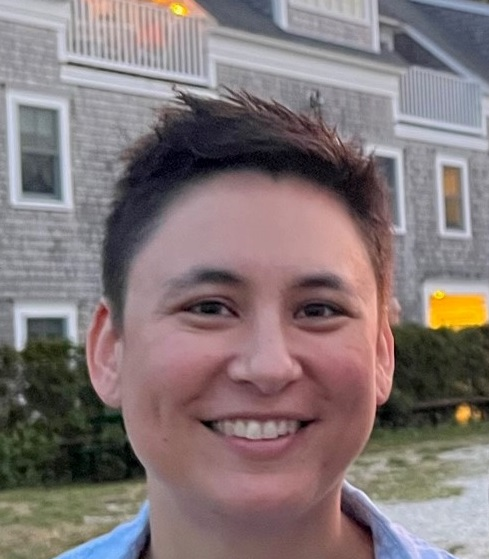
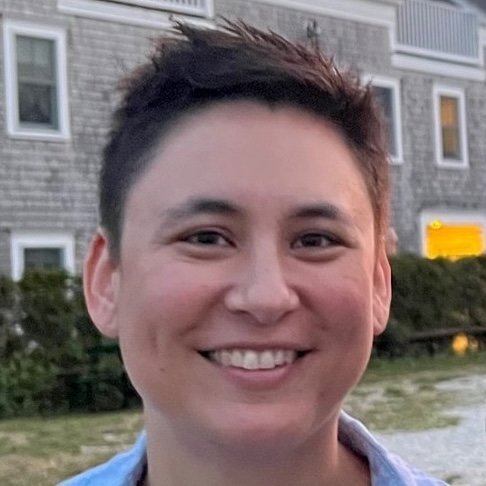
Added more bio information

diff --git a/website/src/theme/Bio/index.js b/website/src/theme/Bio/index.js
@@ -4,7 +4,9 @@ import styles from './styles.module.css'
 
 export default ({children, image, name, organisation}) => {
     return <div className={styles.bio}>
-        <img className={styles.headshot} src={image} alt={name} />
+    	<div class={styles.headshot}>
+	        <img src={image} alt={name} />    	
+    	</div>
         <div className={styles.details}>
             <h4>{name} - {organisation}</h4> 
             <div className={styles.description}>

diff --git a/website/src/theme/Bio/styles.module.css b/website/src/theme/Bio/styles.module.css
@@ -1,15 +1,20 @@
 .bio {
     display: flex;
     padding-bottom: 1rem;
-    align-items: center;
 }
 
 .description {
-
+	flex-grow: 1;
 }
 
 .headshot {
-    width: 10rem;
-    border-radius: 50%;
+    flex-basis: 10rem;
+    flex-shrink: 0;
+    flex-grow: 0;
     padding: 1rem;
+}
+
+.headshot img {
+    border-radius: 50%;
+    max-height: 8rem;	
 }

diff --git a/docs/bok/Contribution.md b/docs/bok/Contribution.md
@@ -17,7 +17,28 @@ Be a trusted venue for our members and community in their open source journey an
 
 ## Meetings
 
-Please check out the [FINOS Calendar](https://www.finos.org/calendar) for details of the OSR Meetings. We currently run two each month. Everyone is welcome, FINOS members and non-members alike.
+<table>
+	<thead>
+		<tr>
+			<th>First Thursday <br /> Every Month</th>
+			<th>Third Thursday <br /> Every Month</th>
+		</tr>
+	</thead>
+	<tbody>
+		<tr>
+			<td className="calendar"><a href="https://calendar.finos.org/4ceeknoiieiu0g9k6rmf4t3n44.ics"><img src="/img/bok/page-types/calendar.png" alt="Meeting Download"/><br />Add To Calendar</a></td>
+			<td className="calendar"><a href="https://calendar.finos.org/3oeu8ev0okjen2i8v5hstg5abt.ics"><img src="/img/bok/page-types/calendar.png" alt="Meeting Download"/><br />Add To Calendar</a></td>
+		</tr>
+		<tr>
+			<td>A show-and-tell covering important topics in open source.  In 2024 we aim to have <a href="https://github.com/finos/open-source-readiness/issues/224">more guest speakers and monthly themes.</a>  Please suggest your own!</td>
+			<td>This meeting is more of a workshop session where we will try to work on articles for this site or organise further resources.  </td>
+		</tr>
+	</tbody>					
+</table>
+
+Meetings are open to anyone who would like to participate. Previous Meeting Minutes and Agendas are available on [GitHub](https://github.com/finos/open-source-readiness/issues?q=is%3Aissue++label%3Ameeting+).
+
+Everyone is welcome, FINOS members and non-members alike.
 
 ## Leadership
 
@@ -44,12 +65,12 @@ Cara Delia advocates open source principles and practices by contributing to ext
 Brittany Istenes started off her career as an elementary school educator which then led to a path of technology. Brittany has led advisory councils, open source ambassador programs, open source contributions, InnerSource initiatives and all the gray areas in between at scale within large companies. Now at Fannie Mae, Brittany is hopeful to share these best practices for OSS and InnerSource with the teams at Fannie Mae. Her main goal is to create a frictionless developer/centric environment where not only are we creating the best products for our customers, but we are doing so in a way that is better, faster, secure and more innovative within the FinTech world.
 </Bio>
 
-<Bio name="Elspeth Minty" organisation="RBC" image="/img/people/elspeth-minty.jpeg">
-Elspeth has worked in the Financial Industry for more than two decades. Her experience covers everything from developing core Java/C++ libraries to helping teams adopt cloud technologies. She has worked in a number of locations, including London, Shanghai and Montreal where she is now based. In her current role at RBC Capital Markets, Elspeth is helping to improve code re-use and consistent application design. She has been involved in FINOS for a number of years and is currently a member of its Technical Steering Committee, as well as a co-lead of the OpenSource Readiness SIG.  Elspeth has presented at conferences, including SpringOne, QCon in London and Shanghai, and InnerSource Commons Gathering.
-</Bio>
-
 <Bio name="Peter Smulovics" organisation="Morgan Stanley" image="/img/people/peter-smulovics.jpeg">
 Peter Smulovics is an Executive Director of Enterprise Application Infrastructure focusing on Microsoft technologies at Morgan Stanley. He is a publicist for IDG and for Architecture Journal; author and co-author of several books and a returning presenter on TechEd, DevDays, Techready, Agile DevCon, TechNet. He is a founder member of AgileAlliance, Architecture Forum, Architect Academy and .NET forum, Technical Lead on several OSS projects like Novell/JBoss’ Hibernate, Apache Velocity and similar. He is Microsoft, Ariba, JBoss, and SiteCore certified and also a trainer on several technologies. Working in IT since 1995, has project experience in different fields (FMCG, public, financial, energy, telecom, pharmaceutical, mobile, music, security). He worked at Compaq as Oracle DBA, worked at Microsoft on C#, .NET, Dynamics, Visual Studio .NET, SQL Server, Office, ASP.NET, Entity Framework, and Azure, and is the main organizer for the FSI Autism Hackathon.
+</Bio>
+
+<Bio name="Thomas Cooper" organisation="RBC" image="/img/people/thomas-cooper.jpeg">
+Director, Open Source Software Development
 </Bio>
 
 ### Executive Sponsors
@@ -57,17 +78,24 @@ Peter Smulovics is an Executive Director of Enterprise Application Infrastructur
 In 2023, FINOS aims to productize Open Source Readiness with new trainings and certification. The following are the FINOS board executive sponsors of this strategy:
 
 <Bio name="Rhyddian Olds" organisation="Citi" image="/img/people/Rhyddian-Photo-Circle.webp">
-Insert bio here
-</Bio>
+Rhyddian is the Head of UI and Services for Citi’s institutional business, driving innovation in client and non-client facing UI applications.  In previous roles at JP Morgan and Deutsche Bank he led major transformational programs to create modern Digital UI Platforms including the acclaimed Autobahn Platform.  He led the first open source project contribution by Deutsche Bank to the brand new FINOS organisation and went on to serve as the FINOS board director for all three of these Platinum members.  <br /><br /> Since joining Citi two years ago, Rhyddian established and now leads Citi’s global Open Source Program Office which promotes open source contribution as an inclusive development pathway for all technology employees. As a passionate advocate of the Diversity, Equity and Inclusion and the benefits of open source contribution, Rhyddian is the FINOS executive sponsor of the FINOS Diversity, Equity and Inclusion and Open Source Readiness Special Interest Groups.</Bio>
 
 <Bio name="Chris Stevenson" organisation="UBS" image="/img/people/chris-stevenson.jpeg">
-Insert bio here
+Head of Strategy and Architecture, Execution and Platform Technology
 </Bio>
 
 ## Contributing Authors
 
-<Bio name="Amol Meshram" image="/img/people/no-headshot.png" organisation="LSEG">
-TBD.
+<Bio name="Amol Meshram" image="/img/people/amol-meshram.png" organisation="LSEG">
+Amol is a seasoned professional with a passion for technology and a commitment to fostering open-source software innovation.<br/><br/>Throughout his career, Amol has demonstrated a remarkable aptitude for open-source software governance, aligning technological innovation with regulatory compliance. At London Stock Exchange Group (LSEG), he plays a pivotal role in ensuring that open-source software initiatives are not only technically robust but also adhere to the highest standards of governance, security, and licensing.<br/><br/>Amol's expertise extends beyond the corporate realm. He is a fervent advocate for the open-source community, actively participating in industry events and contributing to open-source projects that drive technological progress.
+</Bio>
+
+<Bio name="Ayush Arora" image="/img/people/ayush.jpeg" organisation="None">
+Ayush is a legal professional with a rich background in open source software licensing and technology contracting. With a distinguished career that spans pivotal roles, including serving as an Advisor to the PwC's Digital Products & Transformation team and as a Program Manager Digital Innovation at Deloitte's Global Tax & Legal, Ayush has consistently maintained himself at the intersection between law, technology, and innovation. He is also a Black Duck Legal specialist, with background in computer science; and is passionate about advancing innovation in the ever-evolving landscape of open source.
+</Bio> 
+
+<Bio name="Elspeth Minty" organisation="RBC" image="/img/people/elspeth-minty.jpeg">
+Elspeth has worked in the Financial Industry for more than two decades. Her experience covers everything from developing core Java/C++ libraries to helping teams adopt cloud technologies. She has worked in a number of locations, including London, Shanghai and Montreal where she is now based. In her current role at RBC Capital Markets, Elspeth is helping to improve code re-use and consistent application design. She has been involved in FINOS for a number of years and is currently a member of its Technical Steering Committee, as well as a co-lead of the OpenSource Readiness SIG.  Elspeth has presented at conferences, including SpringOne, QCon in London and Shanghai, and InnerSource Commons Gathering.
 </Bio>
 
 <Bio name="Rob Moffat" image="/img/people/rob-moffat.jpeg" organisation="FINOS">
@@ -90,11 +118,11 @@ An open source advocate and enthusiast. His major focus areas include Open Sourc
 Vicki is a product manager of Goldman Sachs’ Core Engineering, where she delivers software to improve developer productivity and to provide exceptional customer experiences. Prior to her current role, Vicki was the OSPO program manager and an instrumental part of building out the firm’s open source program. Before joining Goldman Sachs in 2021, Vicki was in the e-commerce and software consulting spaces in Japan and Taiwan.
 </Bio>
 
-<Bio name="Kay Xiong Pachay" organisation="Goldman Sachs" image="/img/people/no-headshot.png">
-TBC
+<Bio name="Kay Xiong Pachay" organisation="Goldman Sachs" image="/img/people/kay-xiong-pachay.jpeg">
+Open Source Program Manager.
 </Bio>
 
-<Bio name="Zack Koppert" organisation="Github" image="/img/people/no-headshot.png">
+<Bio name="Zack Koppert" organisation="Github" image="/img/people/zack-koppert.jpeg">
 Zack is a Senior Software Engineer at GitHub on the OSPO team, with a focus on Open Source and InnerSource software development. He has a passion for collaborative coding and solving complex technical problems with teams. Zack is also an active member of the Innersource Commons community, where he shares his knowledge and experiences with other like-minded developers.
 </Bio>
 
@@ -107,6 +135,14 @@ When he's not working to help development teams he can usually be found in the k
 Mimi Flynn is a member of the OSPO team as a Vice President at Morgan Stanley. As a kid, she picked up BASIC via an Atari 800 leading her to a career in technology spanning the last two decades. In addition to her OSPO work, she gives back by teaching kids to code via Morgan Stanley’s Tech Philanthropy Tech Education programs. Outside of the office, she furthers her commitment to open source software with The Things Network New York, a non-profit that facilitates a community run IoT network, where she has served as a board member since 2018. Additionally, Mimi has been serving Secretary of Manhattan Community Board 1 where she has been a full board member since 2019 sitting on the Transportation, Quality of Life, and Executive committees.
 </Bio>
 
+<Bio name="Neetu Jain" organisation="JP Morgan" image="/img/people/neetu.jpeg">
+Neetu Jain is an Executive Director of Product at JP Morgan Chase, As part of JPMC’s  public cloud enablement effort she focuses on delivering scalable cloud networking solutions to improve developer productivity and to provide exceptional customer experiences while keeping the firm secure and compliant. Prior to her current role, Neetu career has spanned over companies like HP, IBM, USAA, Thomson Reuters as an engineer as well as Product. She got interested in Open Source at IBM as an engineer ( started her github repo, even contributed a PR to OpenStack once😊) but got to experience managing  open source governance and programs as a IT product at USAA. Neetu strongly believes product professionals ( like engineers and tech writers) have a lot to offer to open source world, She has also contributes her product skills  to Ortelius (CD foundation) project as time permits.
+</Bio>
+
+<Bio name="Katarina Novakovic" organisation="Citi" image="/img/people/katarina.jpeg">
+Katrina has worked with organisations globally across different industries to strategically use and contribute open source software and methodologies and to establish communities. She is passionate about fostering open source development as a standard working practice and strives to make developers’ lives easier. She currently leads Citi’s Inner Source initiative and works with their Open Source Program Office to enable developers to contribute to open source. She also enjoys studying and applying behavioural psychology.
+</Bio>
+
 <Bio name="Jamie Slome" organisation="Citi" image="/img/people/jamie-slome.jpeg">
 Based in London, Jamie Slome is the Operations Lead for Citi's Open Source Program Office (OSPO). He is responsible for implementing developer tooling that supports Citi's open source contribution initiatives and spearheads the expansion of the Open Source Program Office (OSPO). Prior to this, he co-founded and served as Chief Technology Officer at <a href="https://huntr.dev">huntr.dev</a> (<a href="https://uk.finance.yahoo.com/news/protect-ai-acquires-huntr-launches-130300083.html">acquired by ProtectAI</a>), a vulnerability management and responsible disclosure platform for world-renowned open source libraries include <a href="https://github.com/vim/vim">vim</a>, <a href="https://github.com/jgraph/drawio">draw.io</a> and <a href="https://github.com/nuxt">Nuxt.js</a>. Additionally, Jamie is the lead maintainer of <a href="https://github.com/finos/git-proxy">Git Proxy</a>, a highly configurable framework allowing developers and organizations to enforce customized push protections and policies on top of Git.
 </Bio>
@@ -115,12 +151,12 @@ Based in London, Jamie Slome is the Operations Lead for Citi's Open Source Progr
 TBC
 </Bio>
 
-<Bio name="Mark Hoare" organisation="Deutsche Bank" image="/img/people/no-headshot.png">
-TBC
+<Bio name="Mark Hoare" organisation="Deutsche Bank" image="/img/people/mark-hoare.jpeg">
+Director, Open Source Lead
 </Bio>
 
-<Bio name="Pooi Cheong" organisation="Lloyds Bank" image="/img/people/no-headshot.png">
-TBC
+<Bio name="Pooi Cheong" organisation="Lloyds Bank" image="/img/people/pooi.jpeg">
+Pooi is the Open Source Program Office lead at Lloyds Banking Group. She strongly believes that Open Source is the key to unlocking potential to transform the organisation, supporting the Bank’s purpose of Helping Britain Proper through bringing together different communities to deliver the solutions that provides the best experience for its customers.
 </Bio>
 
 <Bio name="Aronya Roy" organisation="Lloyds Bank" image="/img/people/no-headshot.png">
@@ -143,8 +179,8 @@ TBC
 TBC
 </Bio>
 
-<Bio name="Andy Smith" organisation="DFS" image="/img/people/no-headshot.png">
-TBC
+<Bio name="Andy Smith" organisation="DFS" image="/img/people/andy-smith.webp">
+Andy Smith is a Distinguished Engineer at Discover Financial Services with over 20 years of experience building products, leading engineering and open source engagements. Andy has served in board/leadership roles of several open source organizations for member organizations including OpenSocial, jQuery and JS Foundation.
 </Bio>
 
 <Bio name="Vincent Edwards" organisation="DFS" image="/img/people/no-headshot.png">
@@ -152,7 +188,7 @@ TBC
 </Bio>
 
 <Bio name="Chamindra de Silva" organisation="Citi" image="/img/people/chamindra-de-silva.jpeg">
-TBC
+InnerSource product lead and solution architect.
 </Bio>
 
 <Bio name="Vicky Brasseur" image="/img/people/vicky-brasseur.jpeg" organisation="Wipro">

diff --git a/docs/bok/Introduction.md b/docs/bok/Introduction.md
@@ -5,7 +5,7 @@ Open Source Readiness is a collaborative project aimed at developing a comprehen
 
 The project aims to provide a reference point for individuals, organizations, and communities interested in open source software. It is designed to be a comprehensive resource for enterprises looking to use or contribute to open source software.  It covers the philosophy of open source, the different types of licenses, best practices for managing open source projects and the tools and technologies used in open source development. 
 
-The BOK is expected to facilitate the adoption and growth of open source software within the industry and promote a better understanding of the open source ecosystem.
+See the [Contribution Page](Contribution.md) for more details on how this is run and who is involved.
 
 ## Information Architecture
 
